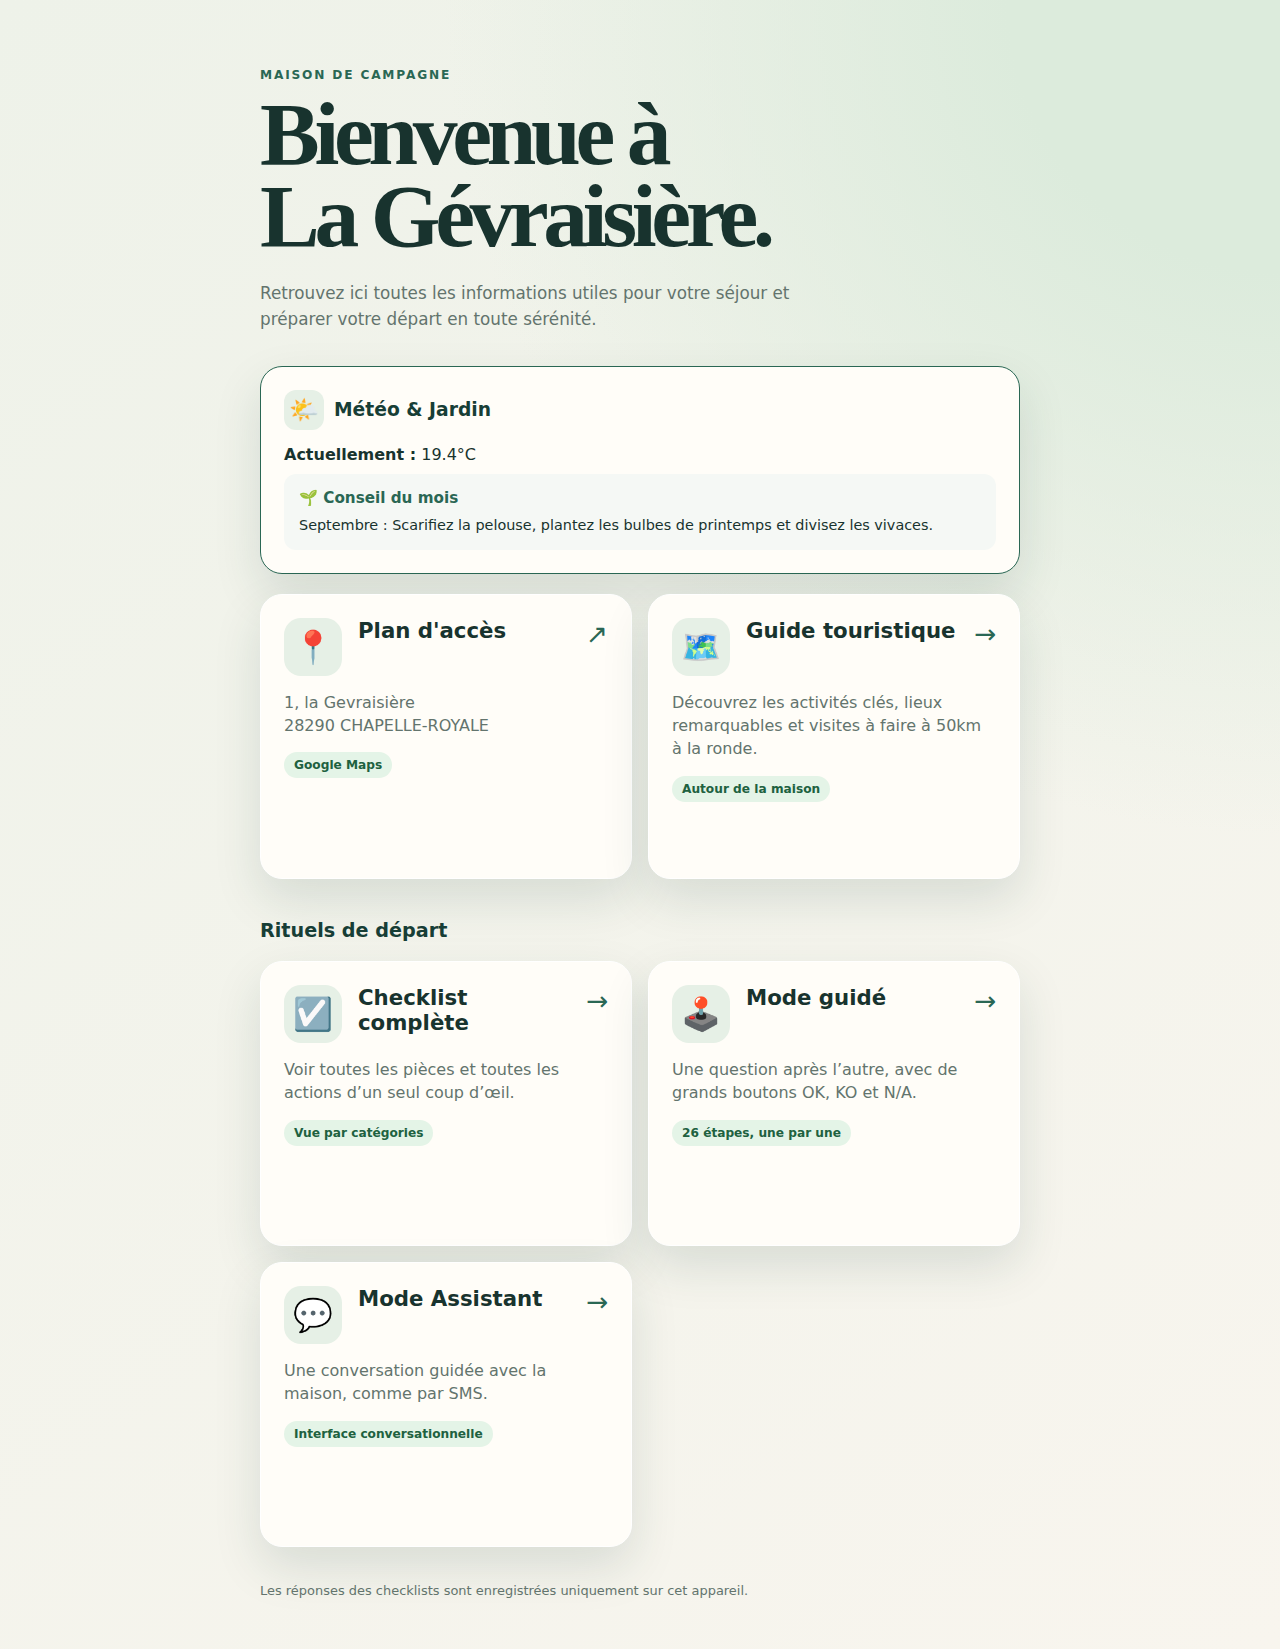
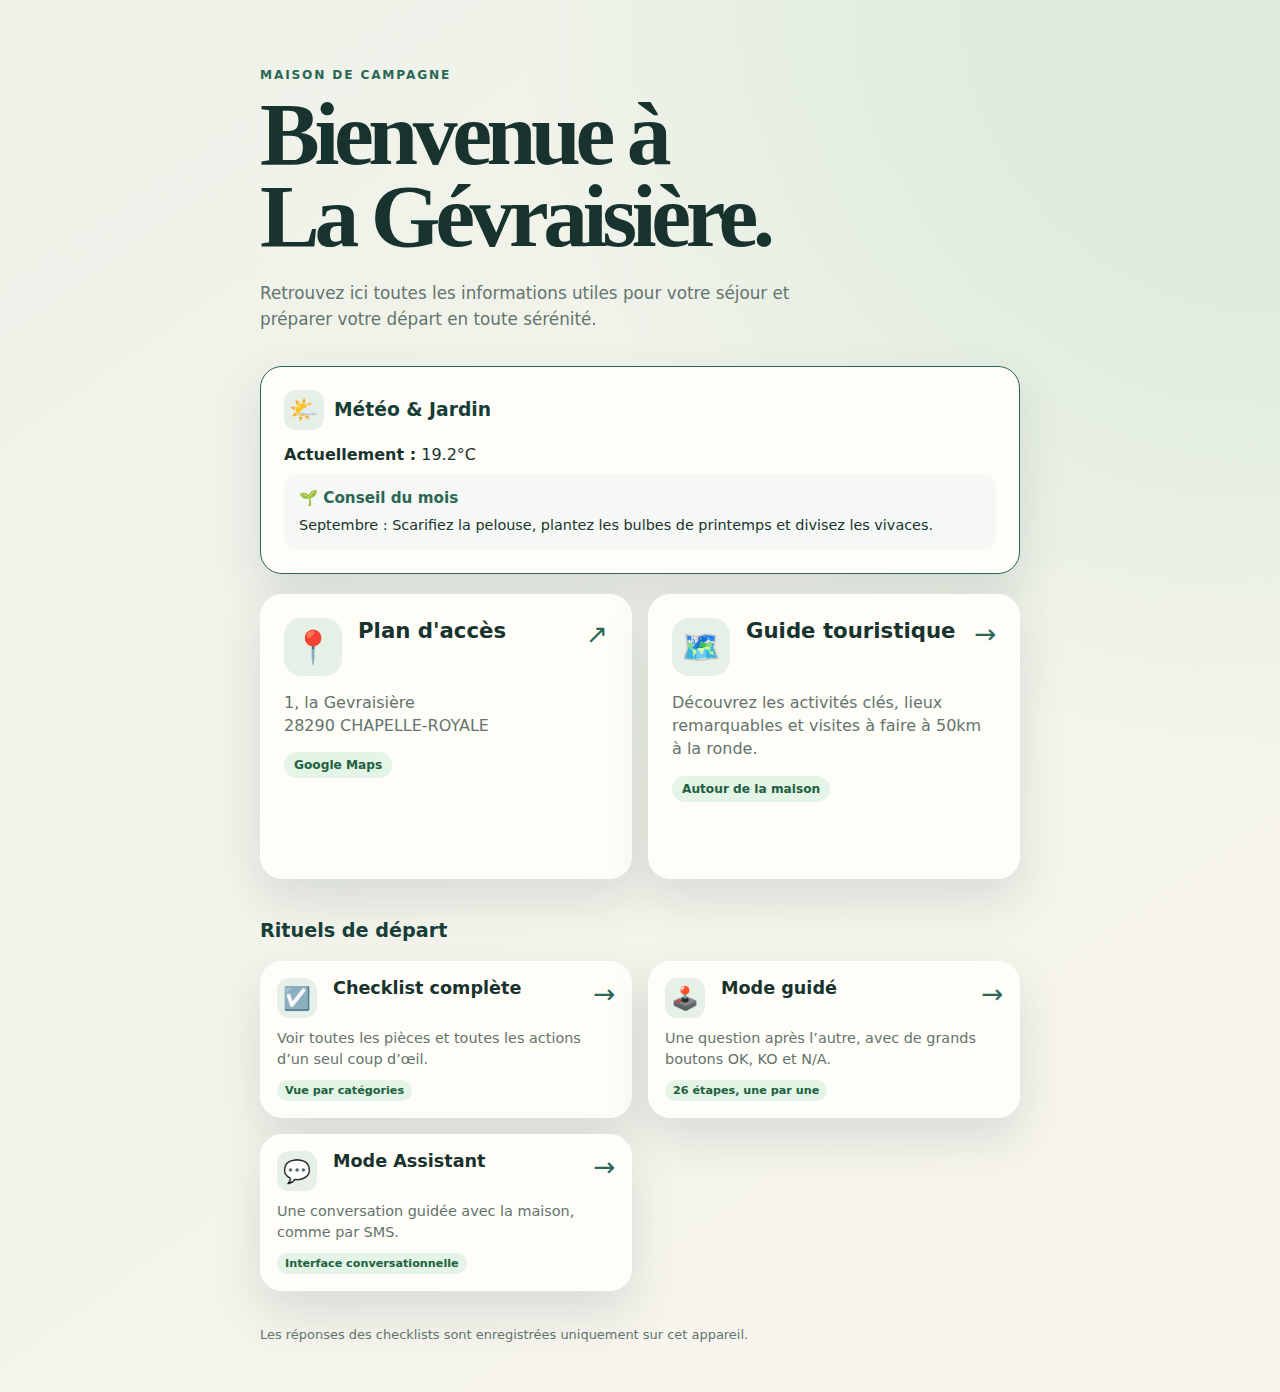
Make checklist modes smaller on index
- Add `.compact` CSS rules to `index.html` to reduce padding, icon size, font sizes, and remove `min-height` for `mode-card` components.
- Apply the `compact` class to the "Rituels de départ" section containing the checklist modes.

Changed region(s): [[0.1875, 0.0309, 0.8125, 0.9885], [0.625, 0.2162, 0.8125, 0.278]]

diff --git a/index.html b/index.html
@@ -141,10 +141,34 @@
       line-height: 1.5;
     }
 
+    .mode-list.compact .mode-card {
+      padding: 16px;
+    }
+    .mode-list.compact .mode-icon {
+      width: 40px;
+      height: 40px;
+      flex: 0 0 40px;
+      font-size: 1.4rem;
+      border-radius: 12px;
+    }
+    .mode-list.compact h2 {
+      font-size: 1.1rem;
+    }
+    .mode-list.compact p {
+      font-size: 0.9rem;
+      margin-top: 10px;
+    }
+    .mode-list.compact .tag {
+      margin-top: 10px;
+      font-size: 0.7rem;
+      padding: 4px 8px;
+    }
+
     @media (min-width: 620px) {
       main { padding-top: 68px; }
       .mode-list { grid-template-columns: 1fr 1fr; }
       .mode-card { min-height: 285px; }
+      .mode-list.compact .mode-card { min-height: auto; }
       .mode-heading { align-items: flex-start; }
     }
   </style>
@@ -182,7 +206,7 @@
     </section>
 
     <h3 style="margin-top: 40px; color: var(--forest); font-size: 1.2rem;">Rituels de départ</h3>
-    <section class="mode-list" aria-label="Choisir un mode de checklist">
+    <section class="mode-list compact" aria-label="Choisir un mode de checklist">
       <a class="mode-card" href="gevraisiere.html">
         <div class="mode-heading">
           <span class="mode-icon" aria-hidden="true">☑</span>
